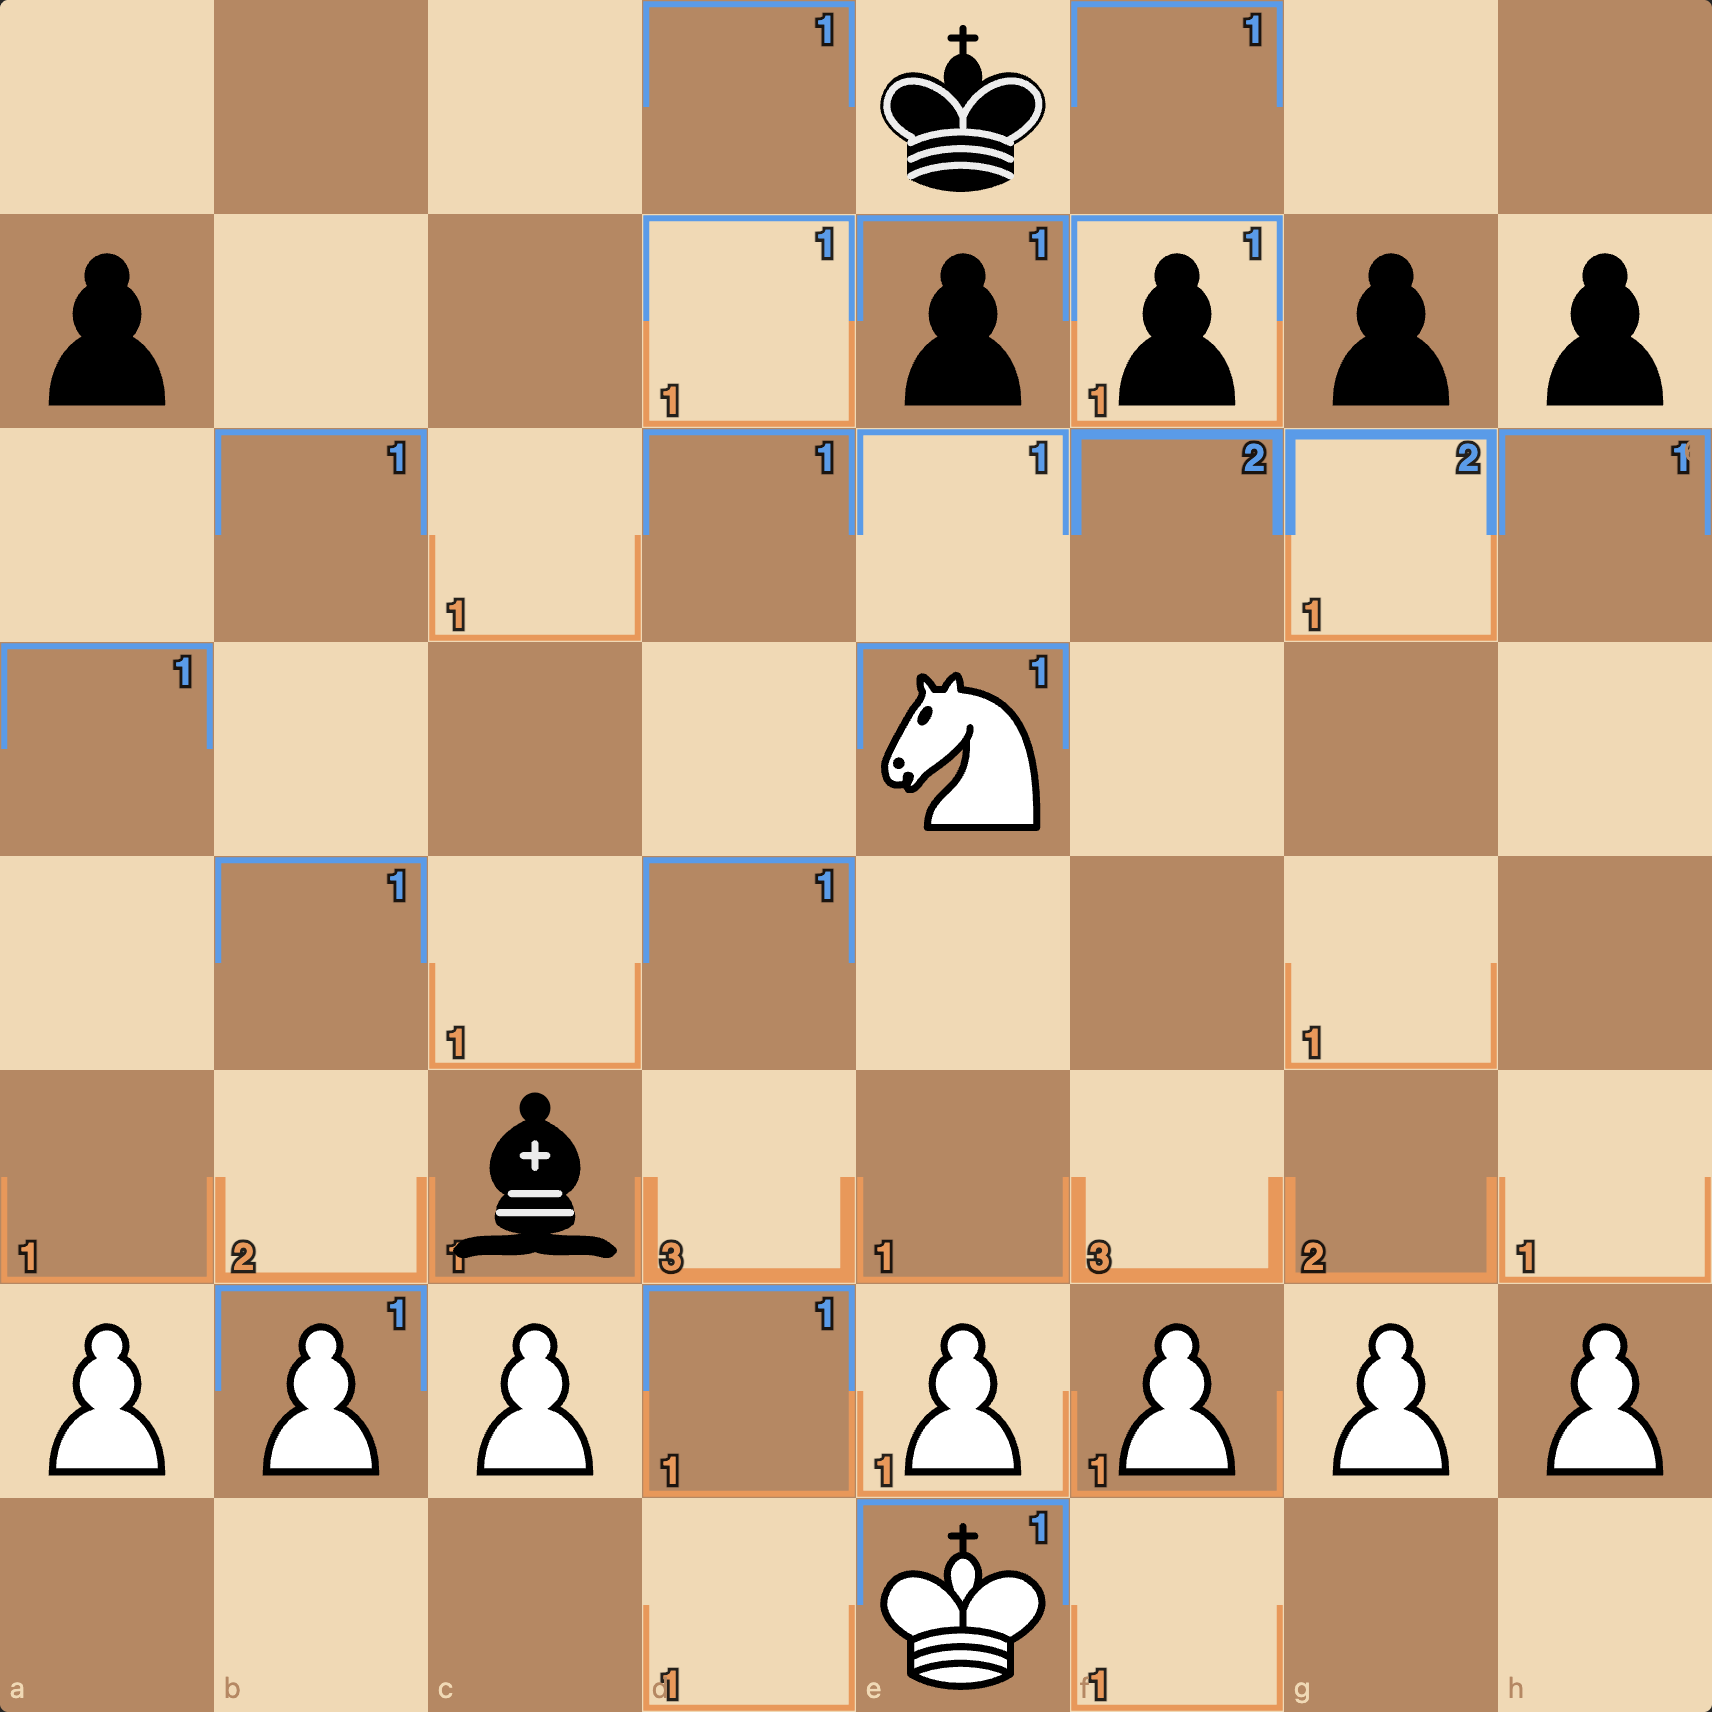
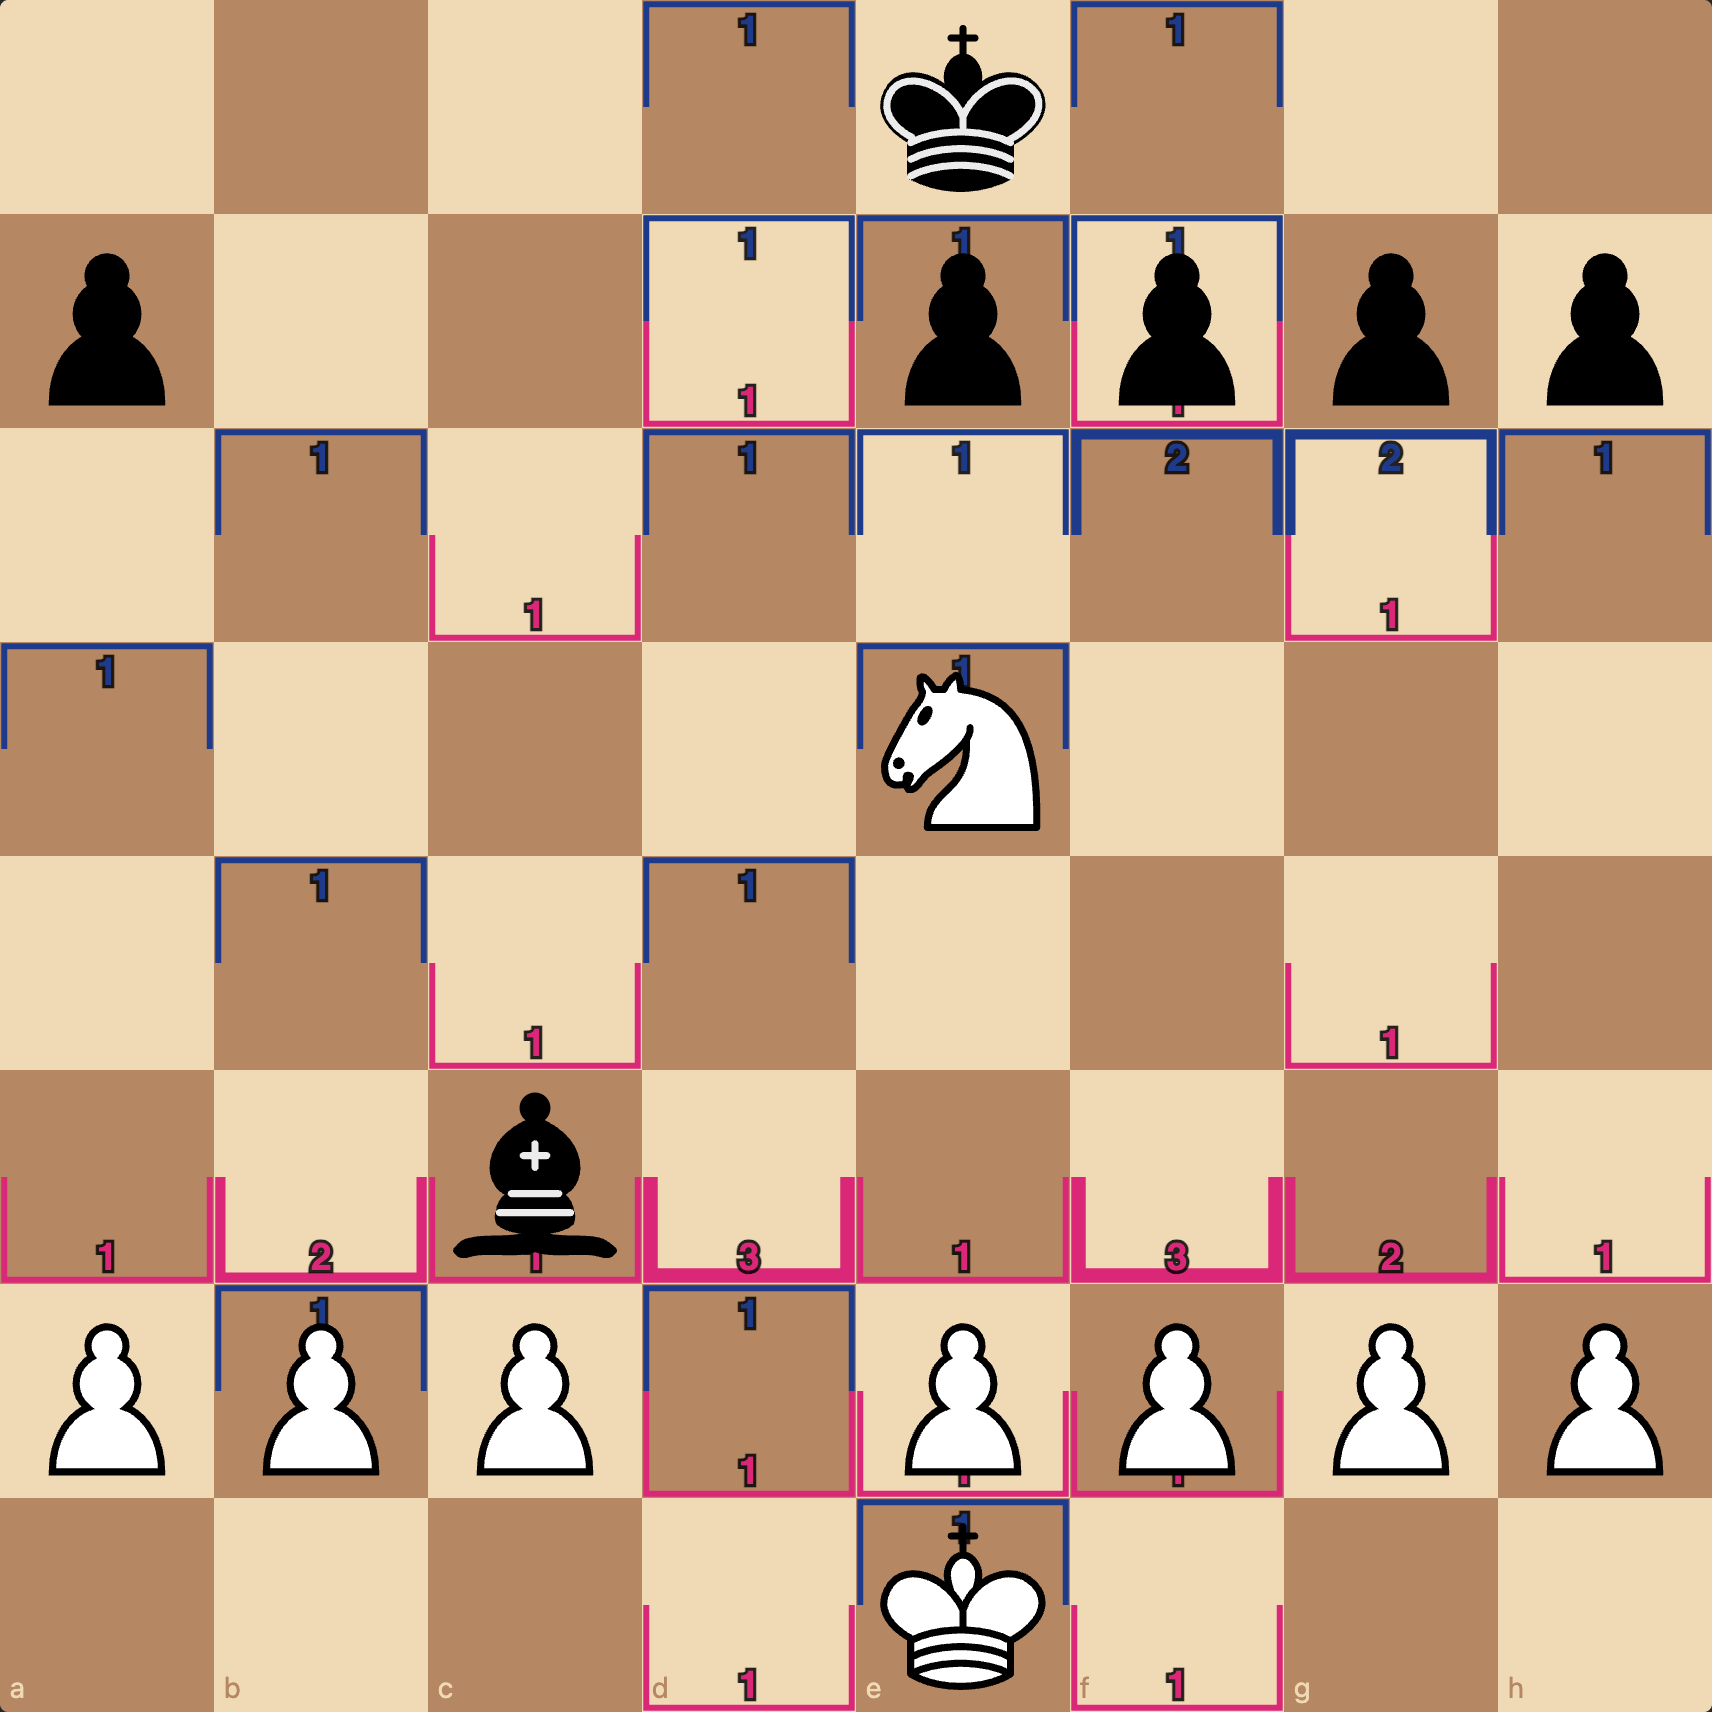
viz 1: pink/navy palette, numbers centered to clear the rank/file labels

diff --git a/js/viz1-control.js b/js/viz1-control.js
@@ -10,8 +10,10 @@
 import { parseFEN, computeControl } from './chess-utils.js';
 import { createBoardSVG, renderPieces, squareXY, SQ, el } from './board.js';
 
-const WHITE_RGB = [232, 152, 90];
-const BLACK_RGB = [90, 155, 232];
+// Hot pink for white, deep blue for black. Both sit far from the brown/beige board palette
+// so the visualization reads from across the room, and warm-vs-cool keeps the sides intuitive.
+const WHITE_RGB = [219, 39, 119]; // #db2777
+const BLACK_RGB = [30, 58, 138];  // #1e3a8a
 const MAX_INT = 4;
 
 function rgb([r, g, b], a = 1) { return `rgba(${r}, ${g}, ${b}, ${a})`; }
@@ -87,24 +89,26 @@ function drawTopHalf(layer, x, y, color, width) {
 }
 
 function drawCounts(layer, ctrl) {
-  // White's count sits near the bottom of the square (closer to white's side of the board).
-  // Black's count sits near the top (closer to black's side).
+  // Both counts horizontally centered: white near the bottom edge, black near the top.
+  // This keeps them off the file/rank coordinate labels in the corners and avoids the
+  // diagonal-opposition visual.
   for (let i = 0; i < 64; i++) {
     const wn = ctrl[i].w.length;
     const bn = ctrl[i].b.length;
     if (wn === 0 && bn === 0) continue;
     const { x, y } = squareXY(i);
-    if (wn > 0) addCount(layer, x + 8, y + SQ - 6, wn, WHITE_RGB, 'start'); // bottom-left
-    if (bn > 0) addCount(layer, x + SQ - 8, y + 18, bn, BLACK_RGB, 'end'); // top-right
+    const cx = x + SQ / 2;
+    if (wn > 0) addCount(layer, cx, y + SQ - 6, wn, WHITE_RGB);
+    if (bn > 0) addCount(layer, cx, y + 18, bn, BLACK_RGB);
   }
 }
 
-function addCount(layer, x, y, n, rgbArr, anchor) {
+function addCount(layer, x, y, n, rgbArr) {
   const t = el('text', {
     x, y,
     fill: rgb(rgbArr),
     stroke: 'rgba(0,0,0,0.85)', 'stroke-width': 3, 'paint-order': 'stroke',
-    'font-size': 16, 'font-weight': 800, 'text-anchor': anchor,
+    'font-size': 16, 'font-weight': 800, 'text-anchor': 'middle',
     'font-family': 'sans-serif',
   });
   t.textContent = String(n);
@@ -141,8 +145,8 @@ export function buildControls(root, state, onChange) {
 }
 export function legendHTML() {
   return `
-    <div><b>Borders mode:</b> each side colors only its own half of the square's border. White paints the bottom half, black the top, when a square is contested the two colors meet face-to-face at the side edges. Thicker border = more attackers (capped at 4).</div>
-    <div style="margin-top: 8px;"><b>Numbers mode:</b> just the digits, no colors, for when the borders feel busy.</div>
-    <div style="margin-top: 8px;">Numeric badges: white's count sits at the bottom of each square (white's side), black's count at the top.</div>
+    <div><b>Borders mode:</b> each side colors only its own half of the square's border. White paints the bottom half (pink), black the top (blue); contested squares show both colors meeting at the side edges. Thicker border = more attackers (capped at 4).</div>
+    <div style="margin-top: 8px;"><b>Numbers mode:</b> just the digits, for when the borders feel busy.</div>
+    <div style="margin-top: 8px;">White's count sits at the bottom of each square (white's side), black's count at the top, both centered to keep clear of the file/rank labels.</div>
   `;
 }

diff --git a/js/viz3-pins.js b/js/viz3-pins.js
@@ -124,7 +124,7 @@ function drawIce(layer, idx, pin, board) {
 function drawPinLine(layer, pin, board) {
   // Color by the *attacker's* side, pins are directional.
   const attacker = board[pin.pinnedBy];
-  const color = attacker.color === 'w' ? '#ff8a52' : '#52a0ff';
+  const color = attacker.color === 'w' ? '#db2777' : '#1e3a8a';
 
   const fromXY = squareXY(pin.pinnedBy);
   const toXY = squareXY(pin.pinnedTo);
@@ -172,6 +172,6 @@ export function legendHTML() {
     <div><span class="swatch" style="background: rgba(140,220,255,0.6); border: 1px solid #cdf"></span> Ice, pinned piece. Height grows with how much is at stake behind it (light sliver = pawn pinned against a knight; tall block = piece pinned against the king).</div>
     <div style="margin-top: 6px;"><span class="swatch" style="background: rgba(126,231,135,0.4); border: 2px solid #7ee787"></span> Green ring, piece is defended (thicker = more defenders).</div>
     <div style="margin-top: 6px;"><span class="swatch" style="background: transparent; border: 2px dashed #ff6b6b"></span> Red dashed ring, hanging (attacked &amp; undefended). Glyph also fades.</div>
-    <div style="margin-top: 6px;">Pin line is dashed in the attacker's color, orange if a white piece is doing the pinning, blue if it's a black piece.</div>
+    <div style="margin-top: 6px;">Pin line is dashed in the attacker's color, pink if a white piece is doing the pinning, blue if it's a black piece.</div>
   `;
 }

diff --git a/js/viz2-attacks.js b/js/viz2-attacks.js
@@ -5,8 +5,8 @@
 import { parseFEN, pieceAttackVectors, fileOf, rankOf } from './chess-utils.js';
 import { createBoardSVG, renderPieces, squareCenter, SQ, el } from './board.js';
 
-const COLOR_W = '#ff8a52';
-const COLOR_B = '#52a0ff';
+const COLOR_W = '#db2777'; // hot pink for white
+const COLOR_B = '#1e3a8a'; // navy for black
 
 const WIDTH = 3.5;
 

diff --git a/css/styles.css b/css/styles.css
@@ -5,8 +5,8 @@
   --muted: #888;
   --accent: #ff7a59;
   --border: #353535;
-  --white-side: #e8985a;
-  --black-side: #5a9be8;
+  --white-side: #db2777;
+  --black-side: #1e3a8a;
 }
 
 * { box-sizing: border-box; }
